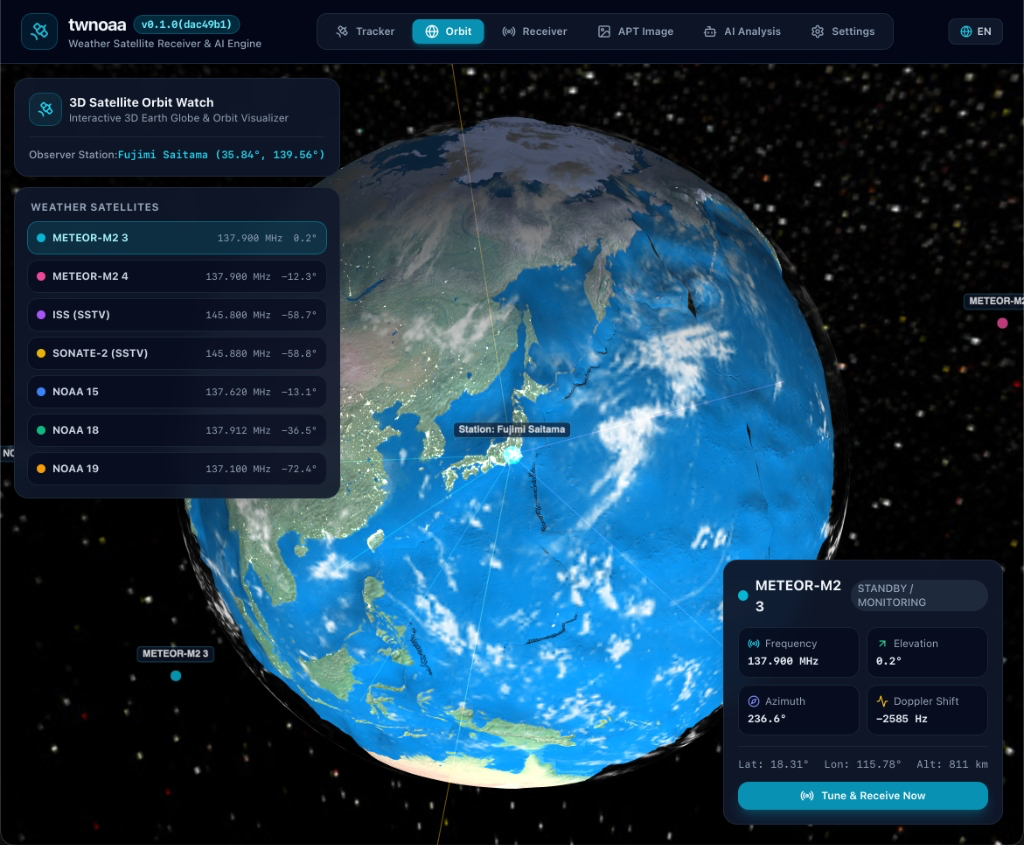
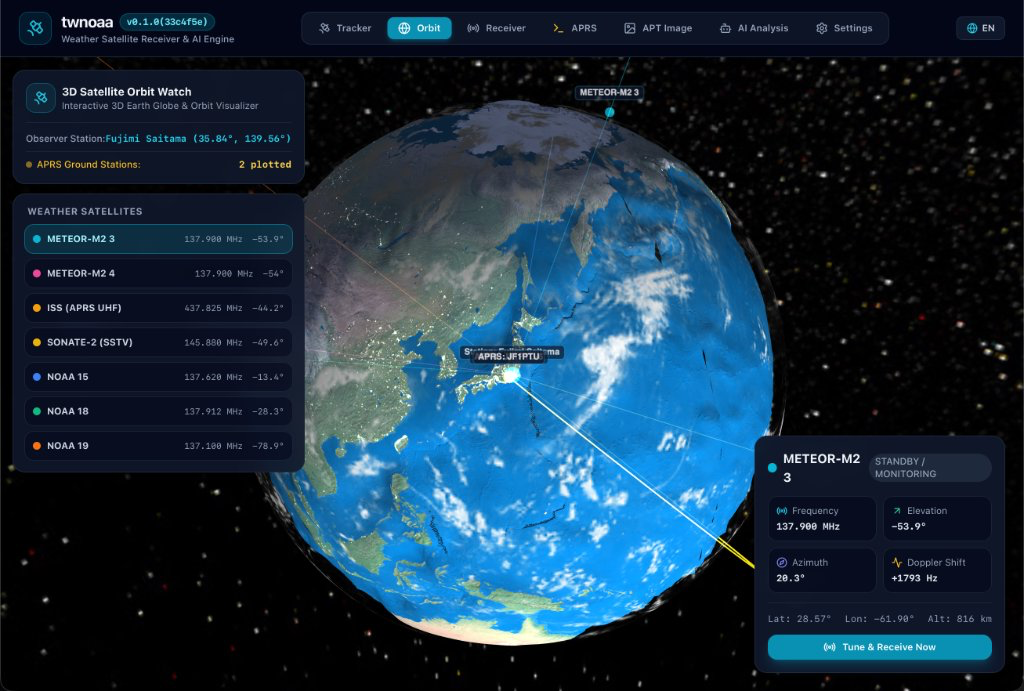
docs: v0.2.0スクリーンショットの追加・更新およびドキュメント詳細化

diff --git a/README.md b/README.md
@@ -120,6 +120,8 @@ twnoaa features a streamlined tabbed layout for tracking, receiving, and analyzi
 - **3D Satellite Orbit Watch**:
   - Interactive 3D Earth globe visualizer rendering real-time satellite positions and orbital flight paths for all active weather satellites.
   - Draws a live vector beam from your ground station to in-range satellites, helping you visualize the arrival vector of the incoming RF signal.
+- **3D APRS Ground Station Mapping**:
+  - Automatically extracts geographic coordinates from received APRS packets and plots active ground stations and beacons directly onto the 3D globe surface with real-time station counts.
 - **Satellite Telemetry Card**:
   - Selecting a satellite displays its center frequency, real-time elevation, azimuth, Doppler frequency shift, sub-satellite coordinates (latitude/longitude), and flight altitude (Alt).
   - Status indicators show "STANDBY / MONITORING" or incoming pass alerts, with a "Tune & Receive Now" shortcut button to jump straight into reception.
@@ -160,6 +162,9 @@ twnoaa features a streamlined tabbed layout for tracking, receiving, and analyzi
 - **High-Definition Image Viewer**:
   - Displays rendered multispectral and visible/IR satellite images. Clicking the preview launches a center-locked zoom & pan viewer for inspecting cloud vortices, frontal boundaries, and coastlines.
   - Multi-tab visualization modes: "APT Image", "Signal Graph", "Multi-Pass Compare", "APT Audio", and "FFT Spectrum".
+- **FM Voice Audio Playback & Per-Pass APRS Packet Log**:
+  - Play back demodulated WAV audio for non-image transmissions, such as ISS cross-band FM repeater passes, directly within the UI.
+  - Inspect the full list of APRS packets received and decoded during each specific satellite pass session.
 - **Offline Processing & AI Handoff**:
   - Re-demodulate and re-decode historical raw signals offline via "Decode from Raw IQ File" or "Decode from WAV File (Test)".
   - One-click "Analyze with AI" sends the satellite image and pass telemetry directly to multimodal LLMs.
